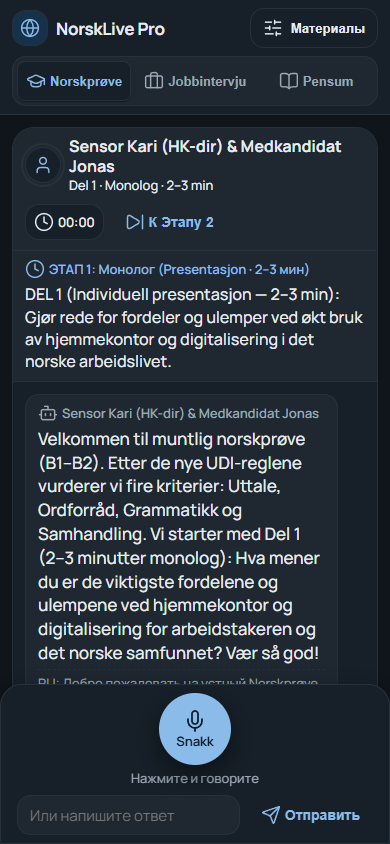
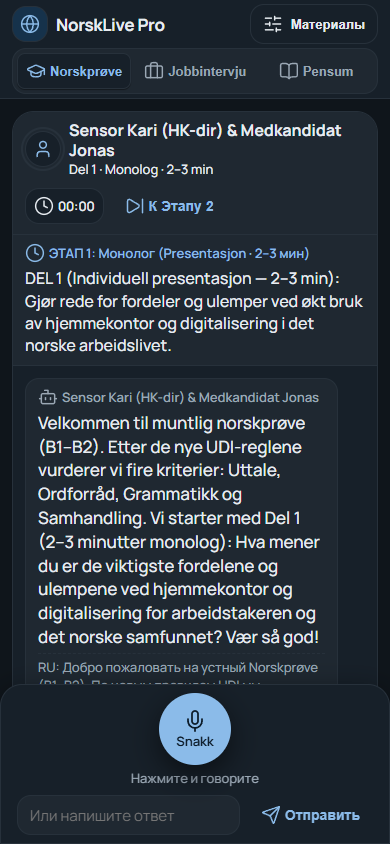
style(m1c-1): tighten mobile spacing on <=700px so full chat message fits above mic dock

Changed region(s): [[0.0308, 0.0, 0.9231, 0.8318]]

diff --git a/src/app/studio/studio.css b/src/app/studio/studio.css
@@ -137,8 +137,8 @@ body {
   .topbar {
     flex-direction: column;
     align-items: stretch;
-    padding: var(--space-2) var(--space-3);
-    gap: var(--space-2);
+    padding: var(--space-1) var(--space-3);
+    gap: var(--space-1);
   }
   .topbar-row {
     width: 100%;
@@ -149,6 +149,19 @@ body {
   .module-tab {
     flex: 1;
     padding: var(--space-1) var(--space-2);
+    min-height: 2.25rem;
+  }
+  .studio-layout {
+    padding: var(--space-2);
+  }
+  .exam-prompt-text {
+    font-size: 0.9375rem;
+    line-height: 1.35;
+  }
+  .msg-norsk,
+  .msg-user-text {
+    font-size: 0.9375rem;
+    line-height: 1.35;
   }
 }
 
